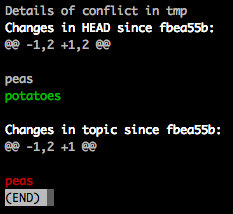
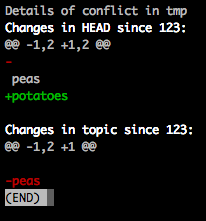
Changed default output from `--color-words` to `--color`, but now allows extra args which will be passed to `git diff`.
Fixes #1.

diff --git a/README.md b/README.md
@@ -78,6 +78,18 @@ which makes it obvious that one branch added `potatoes` and the other removed `p
 6. Commit, push, celebrate.
 
 
+### Customising the output
+
+The output is generated using `git diff`. Any additional args you pass to `git conflict` will be passed on to `git diff`, e.g.:
+
+    $ git conflict path/to/file --word-diff=color
+
+Obviously only some options will make sense, as it only diffs a chunk of a file at a time.
+
+**NOTE:** By default, the `--ignore-all-space` option is always added, as this usually makes it easier to work out what’s going on. To disable this behaviour, use the custom `--consider-whitespace` option:
+
+    $ git conflict path/to/file --consider-whitespace
+
 ## Licence
 
 CC0 / Public domain.
